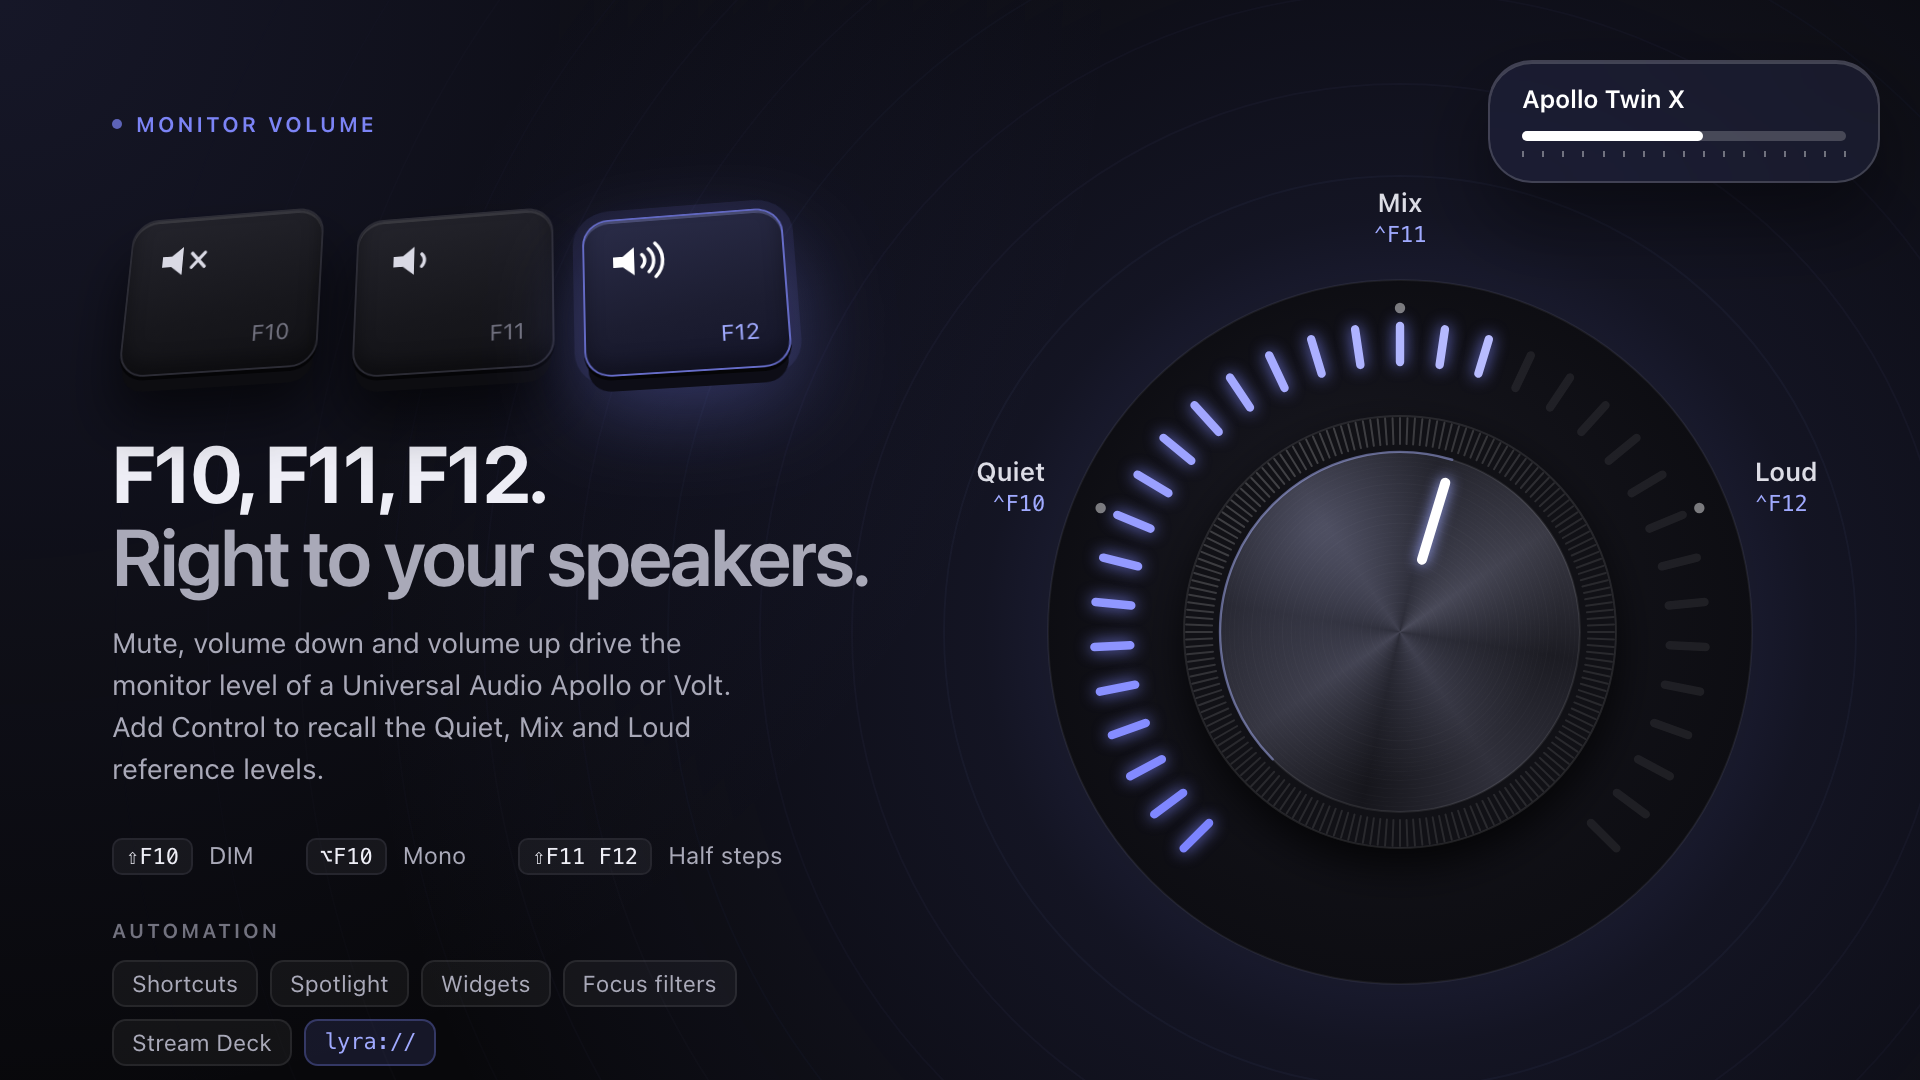
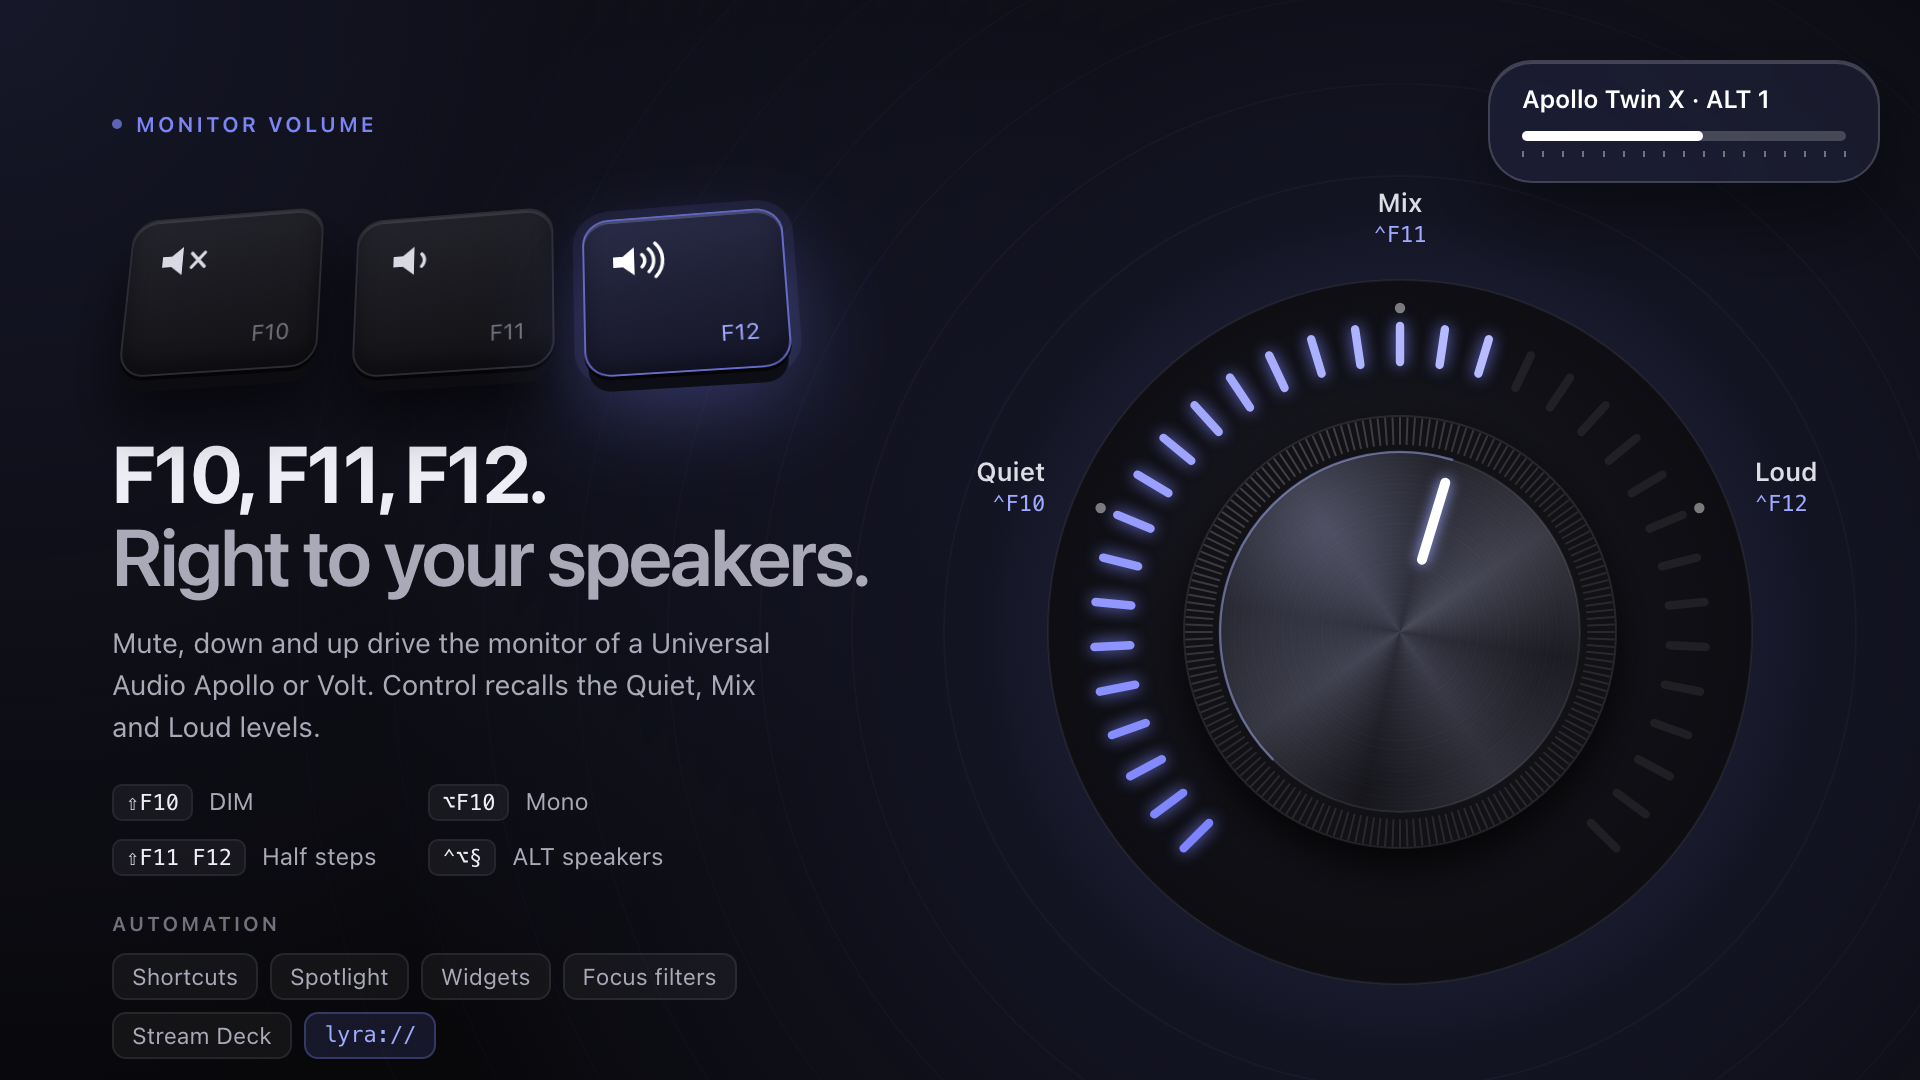
Lyra hero: ALT speakers shortcut and an ALT 1 pill
Adds ⌃⌥§ ALT speakers to the modifier row (now two by two), and the
volume pill reads "Apollo Twin X · ALT 1" as the HUD does on ALT. Lede
shortened to three lines so the automation chips stay in frame. Alt
text updated; WebP via tools/webp.sh.

Claude-Session: https://claude.ai/code/session_01LxhmfXkEYbmFLD3JwmqshQ

Changed region(s): [[0.0625, 0.5806, 0.4062, 0.825], [0.0625, 0.8556, 0.2812, 1.0], [0.3125, 0.8861, 0.375, 0.9167]]

diff --git a/gen_app_banners/heroes/lyra-hero.html b/gen_app_banners/heroes/lyra-hero.html
@@ -49,7 +49,7 @@ h2{margin-top:30px;font-family:var(--display);font-size:40px;line-height:1.04;te
 h2 span{display:block;color:var(--text-2);font-weight:600}
 .lede{margin-top:12px;font-size:14px;line-height:1.5;color:var(--text-2);max-width:330px}
 
-.row{margin-top:24px;display:grid;grid-template-columns:repeat(3,auto);justify-content:start;column-gap:26px;row-gap:9px}
+.row{margin-top:18px;display:grid;grid-template-columns:repeat(2,auto);justify-content:start;column-gap:26px;row-gap:9px}
 .row div{font-size:12px;color:var(--text-2);display:flex;align-items:baseline;gap:8px;white-space:nowrap}
 .row kbd{font-family:var(--mono);font-size:11px;color:var(--text);padding:2px 6px;border-radius:5px;
   background:rgba(255,255,255,.05);border:1px solid #26262e}
@@ -63,7 +63,7 @@ h2 span{display:block;color:var(--text-2);font-weight:600}
 .slider i{position:absolute;left:0;top:0;bottom:0;width:56%;border-radius:3px;background:#fff}
 .ticks{margin-top:5px;display:flex;justify-content:space-between}
 .ticks span{width:1px;height:3px;background:rgba(255,255,255,.38)}
-.auto{margin-top:22px}
+.auto{margin-top:18px}
 .auto .lbl{font-size:10px;font-weight:600;letter-spacing:.14em;text-transform:uppercase;color:var(--text-3)}
 .auto .chips{margin-top:9px;display:flex;flex-wrap:wrap;gap:6px}
 .auto span{font-size:11.5px;color:var(--text-2);padding:4px 9px;border-radius:7px;
@@ -82,9 +82,9 @@ h2 span{display:block;color:var(--text-2);font-weight:600}
     <div class="cap lit"><svg viewBox="0 0 30 24" fill="none" stroke="currentColor" stroke-width="1.8" stroke-linecap="round"><path d="M1 9h5l6-5v16l-6-5H1z" fill="currentColor" stroke="none"/><path d="M16 8.5a5 5 0 0 1 0 7M19.5 5.5a9.5 9.5 0 0 1 0 13M23 2.5a14 14 0 0 1 0 19"/></svg><span class="t">F12</span></div>
   </div>
   <h2>F10, F11, F12. <span>Right to your speakers.</span></h2>
-  <p class="lede">Mute, volume down and volume up drive the monitor level of a Universal Audio Apollo or Volt. Add Control to recall the Quiet, Mix and Loud reference levels.</p>
+  <p class="lede">Mute, down and up drive the monitor of a Universal Audio Apollo or Volt. Control recalls the Quiet, Mix and Loud levels.</p>
   <div class="row">
-    <div><kbd>⇧F10</kbd>DIM</div><div><kbd>⌥F10</kbd>Mono</div><div><kbd>⇧F11 F12</kbd>Half steps</div>
+    <div><kbd>⇧F10</kbd>DIM</div><div><kbd>⌥F10</kbd>Mono</div><div><kbd>⇧F11 F12</kbd>Half steps</div><div><kbd>⌃⌥§</kbd>ALT speakers</div>
   </div>
   <div class="auto"><p class="lbl">Automation</p><div class="chips">
     <span>Shortcuts</span><span>Spotlight</span><span>Widgets</span><span>Focus filters</span><span>Stream Deck</span><span class="url">lyra://</span>
@@ -92,7 +92,7 @@ h2 span{display:block;color:var(--text-2);font-weight:600}
 </div>
 
 <div class="hud">
-  <p class="name">Apollo Twin X</p>
+  <p class="name">Apollo Twin X · ALT 1</p>
   <div class="slider"><i></i></div>
   <div class="ticks"><span></span><span></span><span></span><span></span><span></span><span></span><span></span><span></span><span></span><span></span><span></span><span></span><span></span><span></span><span></span><span></span><span></span></div>
 </div>

diff --git a/lyra/index.html b/lyra/index.html
@@ -99,7 +99,7 @@
 <div class="container">
   <!-- ── Screenshots ──────────────────────────────────────────────────── -->
   <section class="shots">
-    <div class="shot"><picture><source srcset="lyra-hero.webp" type="image/webp"><img src="lyra-hero.png" width="1920" height="1080" alt="Lyra on the F-row - F10, F11 and F12 keycaps with F12 pressed, beside a lit monitor knob whose LED ring marks the Quiet, Mix and Loud reference levels on Control F10, F11 and F12, and the Apollo Twin X volume pill. Shift F10 for DIM, Option F10 for Mono, Shift F11 and F12 for half steps; automation through Shortcuts, Spotlight, widgets, Focus filters, Stream Deck and lyra:// URLs" decoding="async"></picture></div>
+    <div class="shot"><picture><source srcset="lyra-hero.webp" type="image/webp"><img src="lyra-hero.png" width="1920" height="1080" alt="Lyra on the F-row - F10, F11 and F12 keycaps with F12 pressed, beside a lit monitor knob whose LED ring marks the Quiet, Mix and Loud reference levels on Control F10, F11 and F12, and the volume pill reading Apollo Twin X · ALT 1. Shift F10 for DIM, Option F10 for Mono, Shift F11 and F12 for half steps, Control Option § for ALT speakers; automation through Shortcuts, Spotlight, widgets, Focus filters, Stream Deck and lyra:// URLs" decoding="async"></picture></div>
     <!-- SCREENSHOT: lyra-menu (re-shoot for 2.0: Speakers section, "Connected: Apollo Twin X · ALT 1"; update the alt text with it) -->
     <div class="shot"><img src="lyra-menu.png" alt="Lyra menu bar popover - license and device status, monitor slider, Mute / DIM / Mono, Reference Levels submenu, Pass F-Keys to macOS and Launch at Login toggles"></div>
     <div class="shot"><img src="lyra-hud.png" alt="Lyra volume HUD on macOS 26 - the connected Apollo's name above a tick-marked level slider, in clear glass under the menu bar"></div>
